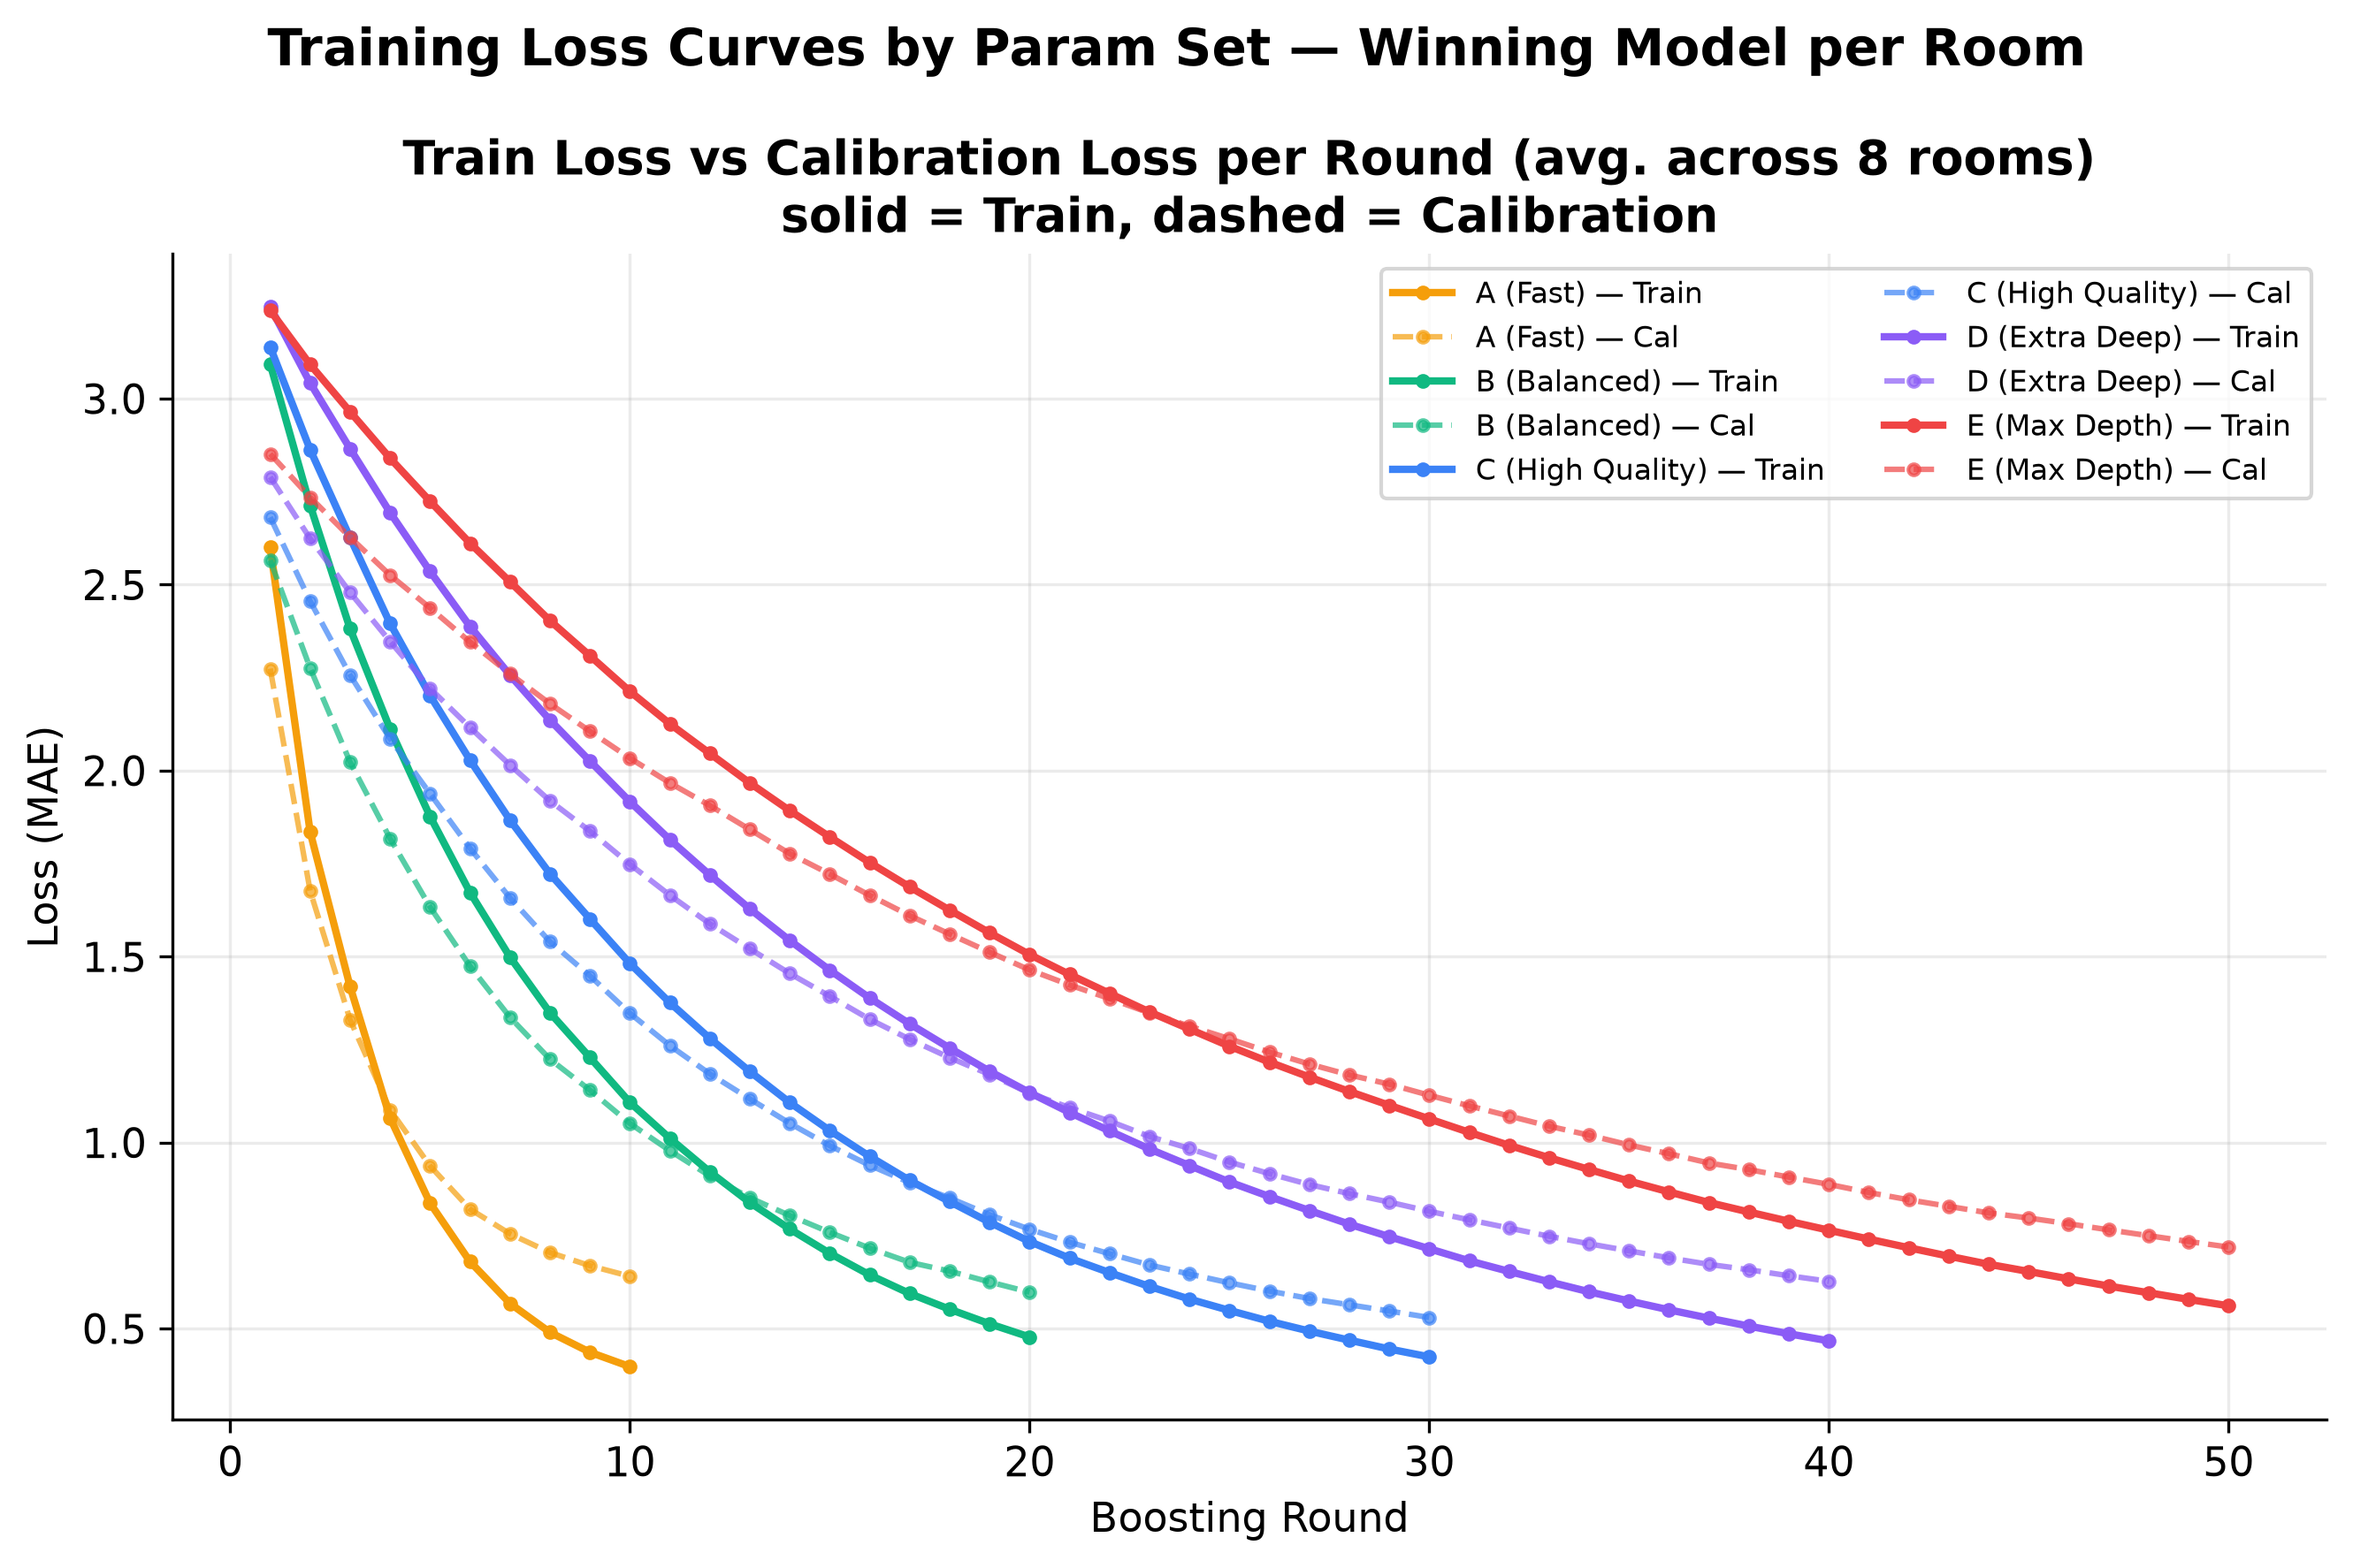
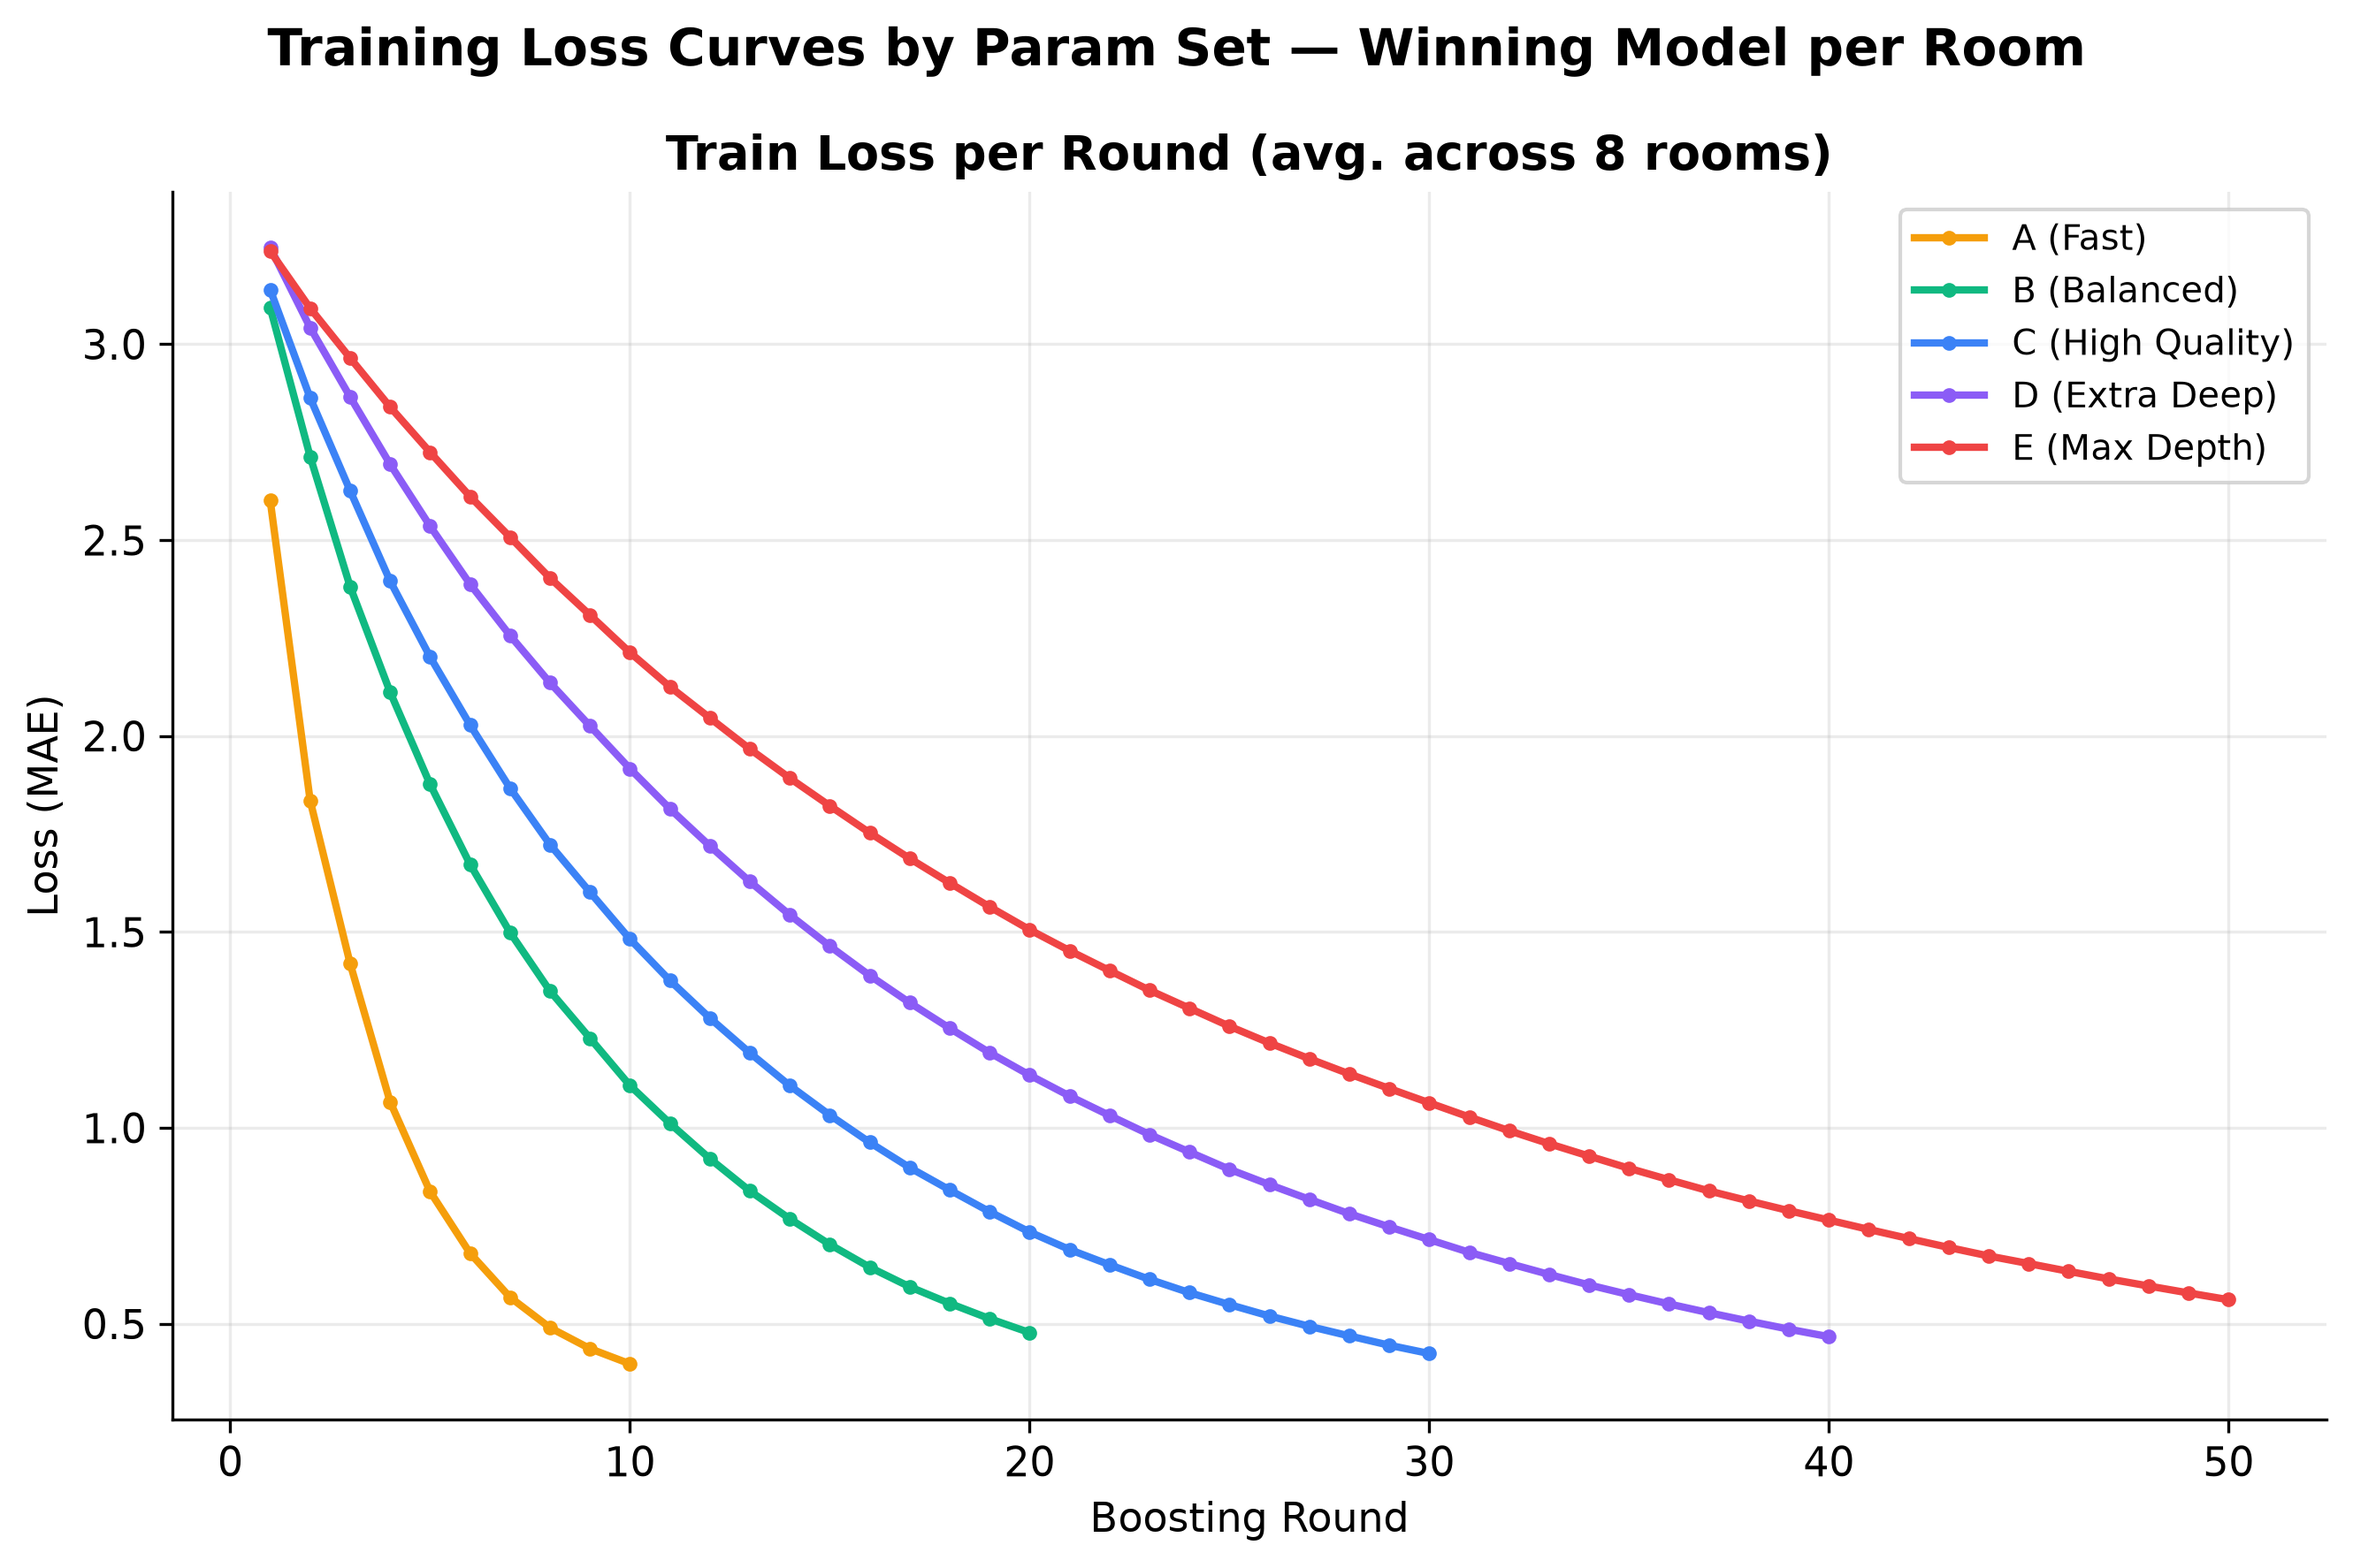
chore: simplify training curve plots to train-only, add test-set curves
Drop the calibration-set line from the train accuracy/loss plots (train
curve only, clearer to read), and add plot_test_curves_by_set.py to
chart per-round test-set accuracy/loss per param set (A-E) by replaying
the already-trained LGB/XGB boosters at each round count — no retrain
needed.

diff --git a/ml/saved/plot_test_curves_by_set.py b/ml/saved/plot_test_curves_by_set.py
@@ -1,0 +1,201 @@
+"""Test-set accuracy/loss per round, one line per param set (A-E), averaged
+across all 8 rooms' winning model (LGB or XGB — LSTM never wins any room in
+the current results, so it's skipped entirely; no retraining involved).
+
+Unlike train_accuracy/valid_accuracy (free — already recorded round-by-round
+in meta.pkl during training), a per-round TEST metric was never computed or
+cached anywhere. But since LightGBM/XGBoost's already-trained boosters can
+predict using only their first K trees (num_iteration / iteration_range),
+getting "test accuracy as if training stopped at round K" needs no
+retraining — just repeated prediction with the saved lgb.pkl/xgb.pkl.
+
+Outputs:
+  metrics_plots/test_curves_by_set.png  (TestAcc per round)
+  metrics_plots/test_loss_by_set.png    (TestLoss per round)
+
+Usage: python ml/saved/plot_test_curves_by_set.py
+"""
+import os, sys, warnings
+warnings.filterwarnings('ignore')
+
+BASE_DIR = '/Users/macthanakorn/room_booking'
+sys.path.insert(0, BASE_DIR)
+os.chdir(BASE_DIR)
+os.environ.setdefault('DJANGO_SETTINGS_MODULE', 'room_booking.settings')
+import django
+django.setup()
+from django.conf import settings
+settings.DATABASES['default']['OPTIONS'] = {'sslmode': 'disable'}
+from django.db import connections
+connections['default'].close()
+
+sys.path.insert(0, os.path.join(BASE_DIR, 'ml', 'saved'))
+import glob
+import joblib
+import numpy as np
+import pandas as pd
+import matplotlib
+matplotlib.use('Agg')
+import matplotlib.pyplot as plt
+
+import forecast as F
+from param_sets import PARAM_SETS
+from booking.models import Room
+
+SAVED_DIR = os.path.join(BASE_DIR, 'ml', 'saved')
+METRICS_DIR = F.METRICS_DIR
+TRAIN_XLSX = os.path.join(SAVED_DIR, 'data_split', 'booking_data_train.xlsx')
+TEST_XLSX = os.path.join(SAVED_DIR, 'data_split', 'booking_data_test.xlsx')
+ACC_PNG = os.path.join(METRICS_DIR, 'test_curves_by_set.png')
+LOSS_PNG = os.path.join(METRICS_DIR, 'test_loss_by_set.png')
+
+ROOM_IDS = {
+    '2C05-06': 443, '2C09': 445, '2C10-11': 446, '2C16-17': 447,
+    '3C05-06': 448, '1C-MEETING': 487, '3C16-17': 505, '4C05': 506,
+}
+SETS = ['A', 'B', 'C', 'D', 'E']
+SET_NAMES = {'A': 'Fast', 'B': 'Balanced', 'C': 'High Quality', 'D': 'Extra Deep', 'E': 'Max Depth'}
+COLORS = {'A': '#f59e0b', 'B': '#10b981', 'C': '#3b82f6', 'D': '#8b5cf6', 'E': '#ef4444'}
+
+
+def to_rdf(df, room_id):
+    out = df.copy()
+    out['room_id'] = room_id
+    out['duration'] = out['duration_hours']
+    out['date'] = pd.to_datetime(out['date']).dt.date
+    return out
+
+
+def room_test_curve(code, room_id, set_name, train_all, test_all):
+    meta_path = os.path.join(SAVED_DIR, f'saved_meta_{set_name}_excel_split', f'{room_id}_meta.pkl')
+    if not os.path.exists(meta_path):
+        return None
+    meta = joblib.load(meta_path)
+    use_log = meta.get('use_log', False)
+    weights = meta.get('ensemble_weights', {}) or {}
+    winner = max(weights, key=weights.get) if weights else 'lightgbm'
+    if winner not in ('lightgbm', 'xgboost'):
+        return None  # LSTM winner would need retraining — skip (none in current data)
+
+    model_dir = os.path.join(SAVED_DIR, f'saved_models_{set_name}_excel_split', str(room_id))
+    model_path = os.path.join(model_dir, 'lgb.pkl' if winner == 'lightgbm' else 'xgb.pkl')
+    if not os.path.exists(model_path):
+        return None
+    model = joblib.load(model_path)
+
+    tr = train_all[train_all['room_code'] == code]
+    te = test_all[test_all['room_code'] == code]
+    if len(te) == 0:
+        return None
+    rdf_full = pd.concat([to_rdf(tr, room_id), to_rdf(te, room_id)], ignore_index=True)
+    daily_full = F._prepare_daily_series(rdf_full, None, None)
+    # Same boundary test_from_excel.py uses: length of the train-ONLY daily
+    # series marks where the real held-out test_xlsx rows begin — NOT an
+    # arbitrary fraction split of the recombined train+test data (that would
+    # leak rows the model was actually trained on into the "test" evaluation).
+    daily_train_only = F._prepare_daily_series(to_rdf(tr, room_id), None, None)
+    n_train_days = len(daily_train_only) if daily_train_only is not None else 0
+    room = Room.objects.get(id=room_id)
+    schedule = F.load_term_schedule(room.id)
+    cap95 = float(daily_full.quantile(0.95)) or 1.0
+    daily_clipped = daily_full.clip(upper=cap95)
+    term_df = F.build_term_daily_features(daily_clipped.index, schedule)
+    term_df.index = daily_clipped.index
+    feat_df = F.build_features(daily_clipped, term_df, use_log=use_log).dropna()
+
+    calib_len = max(1, int(round(n_train_days * 0.125)))
+    train_end = max(n_train_days - calib_len, F.MIN_TRAIN_ROWS)
+    calib_end = min(n_train_days, len(feat_df) - 1)
+    train_end = min(train_end, calib_end)
+
+    X = feat_df.drop(columns='y')
+    y = feat_df['y'].values
+    X_te = X.iloc[calib_end:]
+    y_te = y[calib_end:]
+    if len(y_te) == 0:
+        return None
+
+    feat_names = getattr(model, 'feature_name_', None) or getattr(model, 'feature_names_in_', None)
+    X_te_sel = X_te[list(feat_names)] if feat_names is not None else X_te
+
+    n_rounds = model.n_estimators_ if hasattr(model, 'n_estimators_') else PARAM_SETS[set_name][f'{"lgb" if winner == "lightgbm" else "xgb"}_estimators']
+    y_eval = np.expm1(y_te) if use_log else y_te.copy()
+
+    accs, losses = [], []
+    for k in range(1, n_rounds + 1):
+        if winner == 'lightgbm':
+            pred = np.asarray(model.predict(X_te_sel, num_iteration=k), dtype=float)
+        else:
+            pred = np.asarray(model.predict(X_te_sel, iteration_range=(0, k)), dtype=float)
+        pred_eval = np.expm1(np.maximum(0, pred)) if use_log else np.maximum(0, pred)
+        cls = F.compute_classification_metrics(y_eval, pred_eval, meta['thr_high'], meta['thr_med'], meta['peak_ref'])
+        accs.append(cls['accuracy'])
+        losses.append(cls['loss'])
+    return accs, losses
+
+
+def collect_set(set_name, train_all, test_all):
+    F.LSTM_LOOKBACK = PARAM_SETS[set_name]['lstm_lookback']  # unused here, kept for parity with other scripts
+    per_room_acc, per_room_loss = [], []
+    for code, room_id in ROOM_IDS.items():
+        result = room_test_curve(code, room_id, set_name, train_all, test_all)
+        if result is None:
+            continue
+        accs, losses = result
+        per_room_acc.append(accs)
+        per_room_loss.append(losses)
+    if not per_room_acc:
+        return None
+    max_len = max(len(a) for a in per_room_acc)
+    padded_acc = np.array([a + [a[-1]] * (max_len - len(a)) for a in per_room_acc])
+    padded_loss = np.array([a + [a[-1]] * (max_len - len(a)) for a in per_room_loss])
+    return padded_acc.mean(axis=0) * 100, padded_loss.mean(axis=0)
+
+
+def plot_single(curves, ylabel, title, out_png, legend_loc):
+    plt.rcParams.update({
+        'savefig.facecolor': 'white', 'font.family': 'DejaVu Sans',
+        'font.size': 11, 'axes.titlesize': 13, 'legend.fontsize': 9.5,
+    })
+    fig, ax = plt.subplots(figsize=(9, 6), dpi=300)
+    for set_name in SETS:
+        if set_name not in curves:
+            continue
+        c = COLORS[set_name]
+        vals = curves[set_name]
+        ax.plot(range(1, len(vals) + 1), vals, color=c, marker='o', markersize=3, linewidth=2,
+                 label=f'{set_name} ({SET_NAMES[set_name]})')
+    ax.set_title(title, fontweight='bold')
+    ax.set_xlabel('Boosting Round')
+    ax.set_ylabel(ylabel)
+    ax.legend(loc=legend_loc)
+    ax.spines['top'].set_visible(False)
+    ax.spines['right'].set_visible(False)
+    ax.grid(alpha=0.25)
+    fig.suptitle('Test Curves by Param Set — Winning Model per Room', fontweight='bold', fontsize=14)
+    fig.tight_layout()
+    plt.savefig(out_png, dpi=300, bbox_inches='tight', facecolor='white', edgecolor='none')
+    plt.close(fig)
+    print(f'Saved: {out_png}')
+
+
+def main():
+    train_all = pd.read_excel(TRAIN_XLSX)
+    test_all = pd.read_excel(TEST_XLSX)
+    train_all['date'] = pd.to_datetime(train_all['date']).dt.date
+    test_all['date'] = pd.to_datetime(test_all['date']).dt.date
+
+    acc_curves, loss_curves = {}, {}
+    for set_name in SETS:
+        print(f"Processing Set {set_name}...")
+        result = collect_set(set_name, train_all, test_all)
+        if result is None:
+            continue
+        acc_curves[set_name], loss_curves[set_name] = result
+
+    plot_single(acc_curves, 'Accuracy (%)', 'TestAcc per Round (avg. across 8 rooms)', ACC_PNG, 'lower right')
+    plot_single(loss_curves, 'Loss (MAE)', 'Test Loss per Round (avg. across 8 rooms)', LOSS_PNG, 'upper right')
+
+
+if __name__ == '__main__':
+    main()

diff --git a/ml/saved/plot_training_loss_by_set.py b/ml/saved/plot_training_loss_by_set.py
@@ -59,16 +59,13 @@ for set_name in SETS:
         continue
     c = COLORS[set_name]
     tr = curves[set_name]['train_mean']
-    va = curves[set_name]['valid_mean']
     ax.plot(range(1, len(tr) + 1), tr, color=c, marker='o', markersize=3, linewidth=2,
-             linestyle='-', label=f'{set_name} ({SET_NAMES[set_name]}) — Train')
-    ax.plot(range(1, len(va) + 1), va, color=c, marker='o', markersize=3, linewidth=1.5,
-             linestyle='--', alpha=0.7, label=f'{set_name} ({SET_NAMES[set_name]}) — Cal')
+             label=f'{set_name} ({SET_NAMES[set_name]})')
 
-ax.set_title('Train Loss vs Calibration Loss per Round (avg. across 8 rooms)\nsolid = Train, dashed = Calibration', fontweight='bold')
+ax.set_title('Train Loss per Round (avg. across 8 rooms)', fontweight='bold')
 ax.set_xlabel('Boosting Round')
 ax.set_ylabel('Loss (MAE)')
-ax.legend(loc='upper right', fontsize=8, ncol=2)
+ax.legend(loc='upper right')
 ax.spines['top'].set_visible(False)
 ax.spines['right'].set_visible(False)
 ax.grid(alpha=0.25)

diff --git a/ml/saved/plot_training_curves_by_set.py b/ml/saved/plot_training_curves_by_set.py
@@ -61,16 +61,13 @@ for set_name in SETS:
         continue
     c = COLORS[set_name]
     tr = curves[set_name]['train_mean']
-    va = curves[set_name]['valid_mean']
     ax.plot(range(1, len(tr) + 1), tr, color=c, marker='o', markersize=3, linewidth=2,
-             linestyle='-', label=f'{set_name} ({SET_NAMES[set_name]}) — Train')
-    ax.plot(range(1, len(va) + 1), va, color=c, marker='o', markersize=3, linewidth=1.5,
-             linestyle='--', alpha=0.7, label=f'{set_name} ({SET_NAMES[set_name]}) — Cal')
+             label=f'{set_name} ({SET_NAMES[set_name]})')
 
-ax.set_title('TrainAcc vs CalAcc per Round (avg. across 8 rooms)\nsolid = Train, dashed = Calibration', fontweight='bold')
+ax.set_title('TrainAcc per Round (avg. across 8 rooms)', fontweight='bold')
 ax.set_xlabel('Boosting Round')
 ax.set_ylabel('Accuracy (%)')
-ax.legend(loc='lower right', fontsize=8, ncol=2)
+ax.legend(loc='lower right')
 ax.spines['top'].set_visible(False)
 ax.spines['right'].set_visible(False)
 ax.grid(alpha=0.25)
